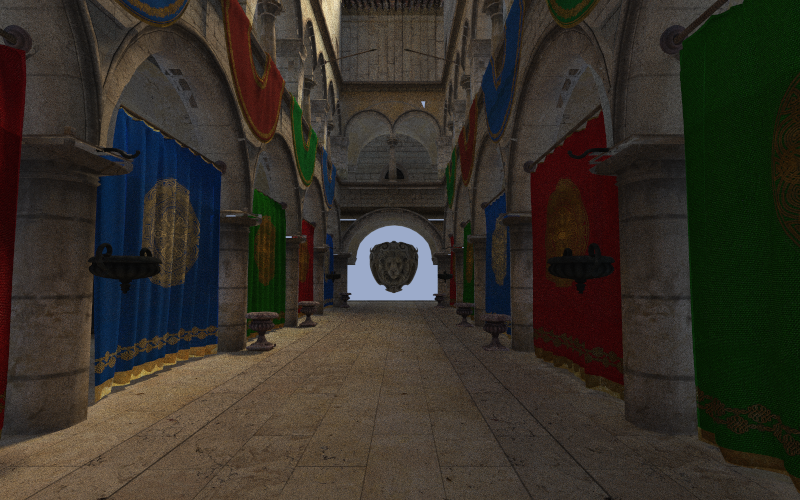
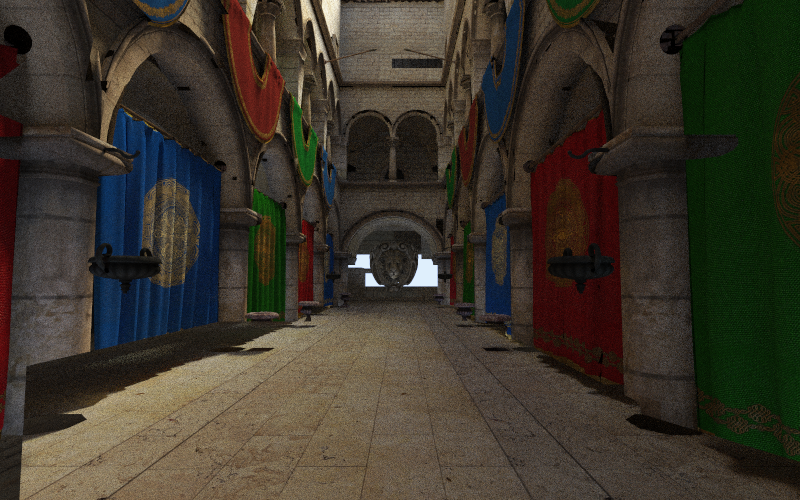
wire Sponza into UI/xtask/README; retune lighting for the merged BVH
Re-tuned scenes/sponza.json's sky/sun brightness (2.2x) against the fixed
AABB traversal (7b8ba5d) -- the previous values were calibrated while a ray
starting inside a node's box silently lost its whole subtree, which was
quietly leaking extra light through occluders. Re-rendered assets/sponza.png
at the same 800x500/700spp as before: 14.5 min (was 25+ min pre-merge).

Wired in:
- UI (app.rs): dropdown entry, added to the path-tracing set, and a
  deliberately small 640x400 preview res -- it's by far the heaviest scene.
- xtask manifest: 800x500 @ 700spp, flagged as the ~14min outlier vs the
  usual 960-wide/minutes-not-tens-of-minutes assets.
- README screenshot.
- CLI test (scene_sponza): tiny 160x100/2spp render, since the scene's cost
  is dominated by its fixed load (23MB obj + 21 textures + one BVH build,
  ~1.8s) rather than pixel count -- this covers the whole load path cheaply.

Also fixes a real regression found while wiring this up: `cargo xtask` has
been broken since d4315a6 (the --use-lines removal) -- that commit updated
main.rs/app.rs's RenderConfig construction but missed xtask/src/main.rs's,
which also builds one. Plain `cargo build` didn't catch it (only builds the
root package); `cargo build --workspace` does. Worth remembering: the plain
build is not sufficient to prove this repo compiles.

12/12 tests pass.

diff --git a/src/app.rs b/src/app.rs
@@ -176,6 +176,7 @@ impl eframe::App for RayflexApp {
             "suzanne-bust",
             "torus-knot",
             "toybox",
+            "sponza",
             "rayflex-pt",
             "trolley",
             "cow",
@@ -206,6 +207,7 @@ impl eframe::App for RayflexApp {
                                         | "suzanne-bust"
                                         | "torus-knot"
                                         | "toybox"
+                                        | "sponza"
                                         | "rayflex-pt"
                                 );
                                 self.use_gamma = true;
@@ -221,6 +223,13 @@ impl eframe::App for RayflexApp {
                                     "toybox" => {
                                         self.width = 800;
                                         self.height = 600;
+                                    }
+                                    // Sponza is by far the heaviest scene
+                                    // (227k tris); keep the interactive
+                                    // preview small so the UI stays usable.
+                                    "sponza" => {
+                                        self.width = 640;
+                                        self.height = 400;
                                     }
                                     "suzanne-bust" | "torus-knot" => {
                                         self.width = 700;

diff --git a/xtask/src/main.rs b/xtask/src/main.rs
@@ -50,6 +50,10 @@ const ASSETS: &[Asset] = &[
     Asset { scene: "suzanne-bust", res_x: 960, res_y: 960, spp: 1200 }, // 1:1, mirror; was 2200 to fight the backwards-wound key light (now fixed -> NEE works)
     Asset { scene: "torus-knot", res_x: 960, res_y: 960, spp: 1500 },   // 1:1, diffuse + NEE -- converges faster
     Asset { scene: "toybox", res_x: 960, res_y: 720, spp: 600 },        // 4:3, textured diffuse toys in a bright studio -- converges fast
+    // 16:10. BY FAR the slowest asset (~14 min): 227k triangles + 21 textures,
+    // and a deep interior where most light arrives via multi-bounce GI. Kept
+    // at 800x500 rather than the usual 960 width to bound that cost.
+    Asset { scene: "sponza", res_x: 800, res_y: 500, spp: 700 },
     Asset { scene: "rayflex-pt", res_x: 960, res_y: 640, spp: 2000 },   // 3:2
     // Ray-traced (spot/vec lit) — spp = 1, adaptive antialiasing on.
     Asset { scene: "teapot", res_x: 960, res_y: 960, spp: 1 },        // 1:1
@@ -81,7 +85,6 @@ fn render(asset: &Asset, fast: bool) {
 
     let cfg = RenderConfig {
         path_tracing: spp,
-        use_lines: false,
         // Adaptive antialiasing (ray-tracing only) needs the sample cache.
         use_hashmap: ray_traced,
         use_adaptive_sampling: ray_traced,

diff --git a/tests/cli.rs b/tests/cli.rs
@@ -139,3 +139,22 @@ fn scene_toybox() -> Result<(), Box<dyn std::error::Error>> {
 
     Ok(())
 }
+#[test]
+fn scene_sponza() -> Result<(), Box<dyn std::error::Error>> {
+    // Tiny render on purpose: this scene is dominated by its fixed load cost
+    // (23 MB OBJ + 21 textures + one BVH over 227k triangles, ~1.8s), so the
+    // pixels are nearly free and the test still covers the whole path.
+    let mut cmd = Command::cargo_bin("rayflex")?;
+    cmd.arg("-l")
+        .arg("scenes/sponza.json")
+        .arg("-x")
+        .arg("160")
+        .arg("-y")
+        .arg("100")
+        .arg("-p")
+        .arg("2")
+        .assert()
+        .success();
+
+    Ok(())
+}

diff --git a/README.md b/README.md
@@ -27,6 +27,7 @@ Scenes are described in a json file that contains:
 
 ## Screenshots
 ![rayflex-pt](./assets/rayflex-pt.png)
+![sponza](./assets/sponza.png)
 ![toybox](./assets/toybox.png)
 ![torus-knot](./assets/torus-knot.png)
 ![gold-gallery](./assets/gold-gallery.png)
